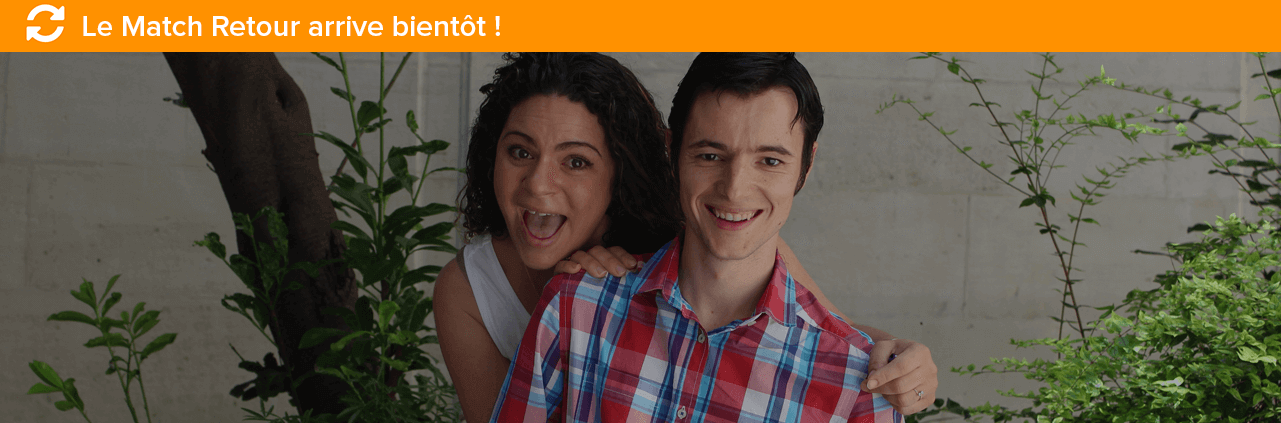
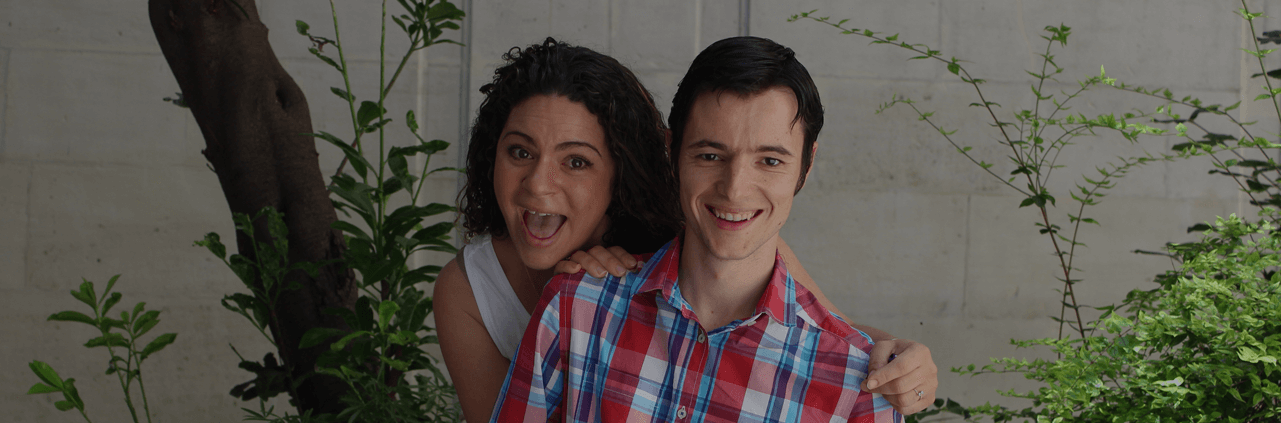
online nadia episode

Changed region(s): [[0.0, 0.0, 1.0, 0.1229]]

diff --git a/app/retour/ctrl.js b/app/retour/ctrl.js
@@ -62,30 +62,30 @@ angular.module('app')
             //    $scope.lien_matchRetour = "#/details?id=Président";
             //}
 
-            //else if (id == 'Technical Leader') {
-            //    $scope.id = 'Technical Leader';
-            //    $scope.name = 'nadia';
-            //    $scope.sourceImgBg = 'img/bg_daf_matchretour.png';
-            //    $scope.sourceImgBgMini = 'img/bg_daf_560_matchretour.png';
-            //    $scope.phraseConsultant = 'Ich been berlin ?';
-            //    $scope.nomConsultant = 'Nadia Sidhoum, DAF';
-            //    $scope.phraseConsulte = 'A vos marques, prêts ? Orchestrez !';
-            //    $scope.expert = 'L’EXPERT';
-            //    $scope.apprenti = 'L’APPRENTIE';
-            //    $scope.nomConsulte = 'Clément Heliou, Consultant';
-            //    $scope.rond1 = 'img/nadia_sidhoum.png';
-            //    $scope.nom12 = "Nadia Sidhoum, DAF"
-            //    $scope.quote1 = $sce.trustAsHtml('Avant cette expérience, pour moi le métier de développeur se résumait à un consultant avachi sur sa chaise devant un écran et tapant des /// ping pong / sans discontinuer. Un peu comme la pub free… </br></br> Mais ça c’était avant ! Au risque de ne pas paraître très originale, mon vis ma vie match retour m’a transporté à des années lumière de ma vision du métier de développeur.</br></br> Tout d’abord, Clément évolue dans un environnement très stimulant, surtout pour un DAF : une des salles des marchés de la SGCIB (banque d’investissement de la Société Générale), l’argent doit aller et venir… surtout  venir . Il occupe un poste de technical leader sur un projet très challengeant : la mise en place d’un orchestrateur de RFS (Request for stream). Il s’agit d’une plateforme de produits financiers destinée aux clients de la SGCIB dans le domaine des matières premières (métaux de base, métaux précieux, produits agricoles).</br></br> Contrairement à ce que je pensais ; le métier de développeur comporte un aspect humain très important, c’est un métier très collaboratif. L’équipe de clément coopère avec 6 autres équipes de différents services, fait partie d’une communauté open source en interne à la Société générale (on parle d’inner-sourcing), reçoit les retours et infos des équipes utilisatrices de l’outil, des traders… Malgré son jeune âge, Clément m’a paru être une force tranquille. Il anime les dailys (points quotidiens pour visualiser les tâches de chacun et les blocages éventuels) et les réunions avec son équipe et d’autres interlocuteurs (dont la rétrospective, point bimensuel pour améliorer continuellement l’application et la vie de l’équipe).</br></br> Le tout avec une facilité déconcertante. Il était très à l’aise ! eIl est très diplomate et cherche toujours des solutions pour contourner les obstacles. Il apporte une dynamique positive au projet. Clément ! Tu m’as bluffée ;)');
-            //    $scope.ccl = 'En conclusion : Pour moi c’est un chef d’orchestre technique car son leitmotiv reste avant tout la technique.'
-            //    $scope.video = 'https://www.youtube.com/embed/4KEhbzZUHQM';
-            //    $scope.video_twitter = "http://twitter.com/intent/tweet/?url=https://bit.ly/VMV-TechLeader&hashtags=XebianVMV&via=XebiaFr";
-            //    $scope.video_google = "https://plus.google.com/share?url=https://bbit.ly/VMV-TechLeader";
-            //    $scope.video_linkedin = "https://www.linkedin.com/cws/share?url=https://bit.ly/VMV-TechLeader";
-            //    $scope.video_facebook = "http://www.facebook.com/sharer.php?u=https://bit.ly/VMV-TechLeader";
-            //    $scope.blog_article = "http://blog.xebia.fr/2015/09/29/vis-ma-vie-episode-6-clement-daf-dun-jour";
-            //    $scope.texte_MatchReturn = "VIS MA VIE DE DAF"
-            //    $scope.lien_matchRetour = "#/details?id=DAF";
-            //}
+            else if (id == 'Technical Leader') {
+               $scope.id = 'Technical Leader';
+               $scope.name = 'nadia';
+               $scope.sourceImgBg = 'img/bg_daf_matchretour.png';
+               $scope.sourceImgBgMini = 'img/bg_daf_560_matchretour.png';
+               $scope.phraseConsultant = 'Ich been berlin ?';
+               $scope.nomConsultant = 'Nadia Sidhoum, DAF';
+               $scope.phraseConsulte = 'A vos marques, prêts ? Orchestrez !';
+               $scope.expert = 'L’EXPERT';
+               $scope.apprenti = 'L’APPRENTIE';
+               $scope.nomConsulte = 'Clément Heliou, Consultant';
+               $scope.rond1 = 'img/nadia_sidhoum.png';
+               $scope.nom12 = "Nadia Sidhoum, DAF"
+               $scope.quote1 = $sce.trustAsHtml('Avant cette expérience, pour moi le métier de développeur se résumait à un consultant avachi sur sa chaise devant un écran et tapant des /// ping pong / sans discontinuer. Un peu comme la pub free… </br></br> Mais ça c’était avant ! Au risque de ne pas paraître très originale, mon vis ma vie match retour m’a transporté à des années lumière de ma vision du métier de développeur.</br></br> Tout d’abord, Clément évolue dans un environnement très stimulant, surtout pour un DAF : une des salles des marchés de la SGCIB (banque d’investissement de la Société Générale), l’argent doit aller et venir… surtout  venir . Il occupe un poste de technical leader sur un projet très challengeant : la mise en place d’un orchestrateur de RFS (Request for stream). Il s’agit d’une plateforme de produits financiers destinée aux clients de la SGCIB dans le domaine des matières premières (métaux de base, métaux précieux, produits agricoles).</br></br> Contrairement à ce que je pensais ; le métier de développeur comporte un aspect humain très important, c’est un métier très collaboratif. L’équipe de clément coopère avec 6 autres équipes de différents services, fait partie d’une communauté open source en interne à la Société générale (on parle d’inner-sourcing), reçoit les retours et infos des équipes utilisatrices de l’outil, des traders… Malgré son jeune âge, Clément m’a paru être une force tranquille. Il anime les dailys (points quotidiens pour visualiser les tâches de chacun et les blocages éventuels) et les réunions avec son équipe et d’autres interlocuteurs (dont la rétrospective, point bimensuel pour améliorer continuellement l’application et la vie de l’équipe).</br></br> Le tout avec une facilité déconcertante. Il était très à l’aise ! eIl est très diplomate et cherche toujours des solutions pour contourner les obstacles. Il apporte une dynamique positive au projet. Clément ! Tu m’as bluffée ;)');
+               $scope.ccl = 'En conclusion : Pour moi c’est un chef d’orchestre technique car son leitmotiv reste avant tout la technique.'
+               $scope.video = 'https://www.youtube.com/embed/4KEhbzZUHQM';
+               $scope.video_twitter = "http://twitter.com/intent/tweet/?url=https://bit.ly/VMV-TechLeader&hashtags=XebianVMV&via=XebiaFr";
+               $scope.video_google = "https://plus.google.com/share?url=https://bbit.ly/VMV-TechLeader";
+               $scope.video_linkedin = "https://www.linkedin.com/cws/share?url=https://bit.ly/VMV-TechLeader";
+               $scope.video_facebook = "http://www.facebook.com/sharer.php?u=https://bit.ly/VMV-TechLeader";
+               $scope.blog_article = "http://blog.xebia.fr/2015/09/29/vis-ma-vie-episode-6-clement-daf-dun-jour";
+               $scope.texte_MatchReturn = "VIS MA VIE DE DAF"
+               $scope.lien_matchRetour = "#/details?id=DAF";
+            }
 
             else if (id == 'Data Scientist') {
                $scope.id = 'Data Scientist';

diff --git a/app/directive/episodes.js b/app/directive/episodes.js
@@ -17,7 +17,7 @@ angular.module('app')
                 {job: 'Dir. Xebia Studio'},
                 {job: 'Dir. Recrutement', hasBackEpisode: true, texte_MatchReturn: 'Developpeur', accessible: true},
                 {job: 'Dir. Marketing', hasBackEpisode: true, texte_MatchReturn: 'Data Scientist', accessible: true},
-                {job: 'DAF', hasBackEpisode: true, texte_MatchReturn: 'Technical Leader'},
+                {job: 'DAF', hasBackEpisode: true, texte_MatchReturn: 'Technical Leader', accessible: true},
                 {job: 'COO'},
                 {job: 'Dir. Commerciale', hasBackEpisode: true, texte_MatchReturn: 'Dev. Android', accessible: true},
                 {job: 'Consultant Manager'}

diff --git a/app/details/ctrl.js b/app/details/ctrl.js
@@ -255,6 +255,7 @@ angular.module('app')
                  $scope.texte_MatchReturn = "VIE MA VIE DE TECHNICAL LEADER";
                  $scope.lien_matchRetour = "#/retour?id=Technical Leader";
                  $scope.hasBackEpisode = true;
+                 $scope.accessible = true;
              }
 
 
